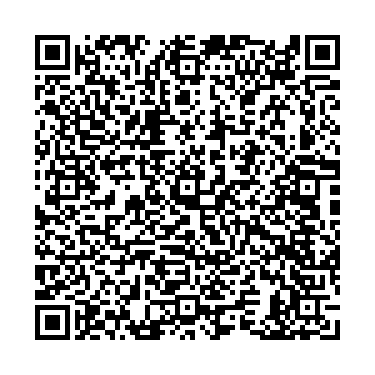
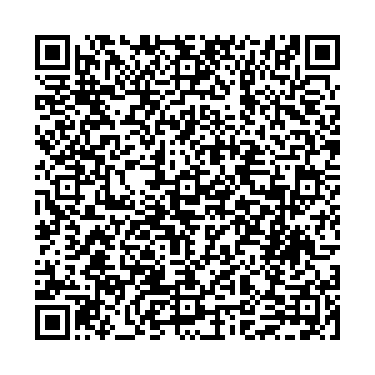
Mensaje descriptivo de los cambios

Changed region(s): [[0.088, 0.088, 0.9093, 0.9093]]

diff --git a/app.js b/app.js
@@ -42,7 +42,7 @@ const flowGracias = addKeyword(['gracias', 'grac']).addAnswer(
 )
 
 const flowDiscord = addKeyword(['discord']).addAnswer(
-    ['🤪 Únete al discord', 'https://link.codigoencasa.com/DISCORD', '\n*2* Para siguiente paso.'],
+    ['🤪 siguenos en FB', 'https://www.facebook.com/MLsport100', '\n*2* Para siguiente paso.'],
     null,
     null,
     [flowSecundario]
